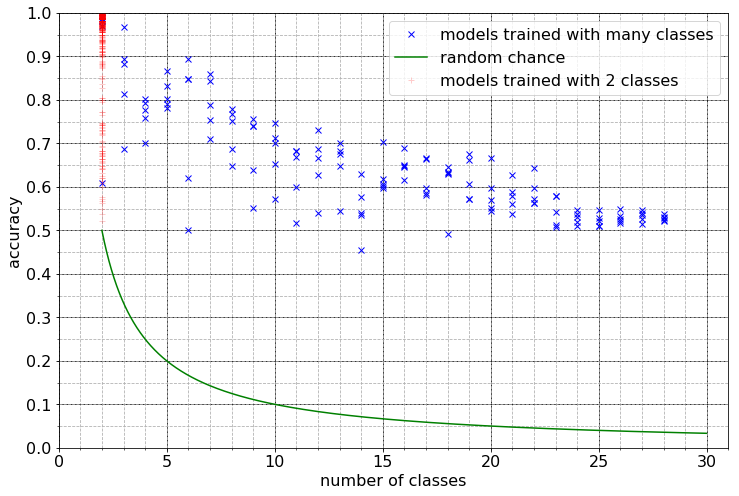
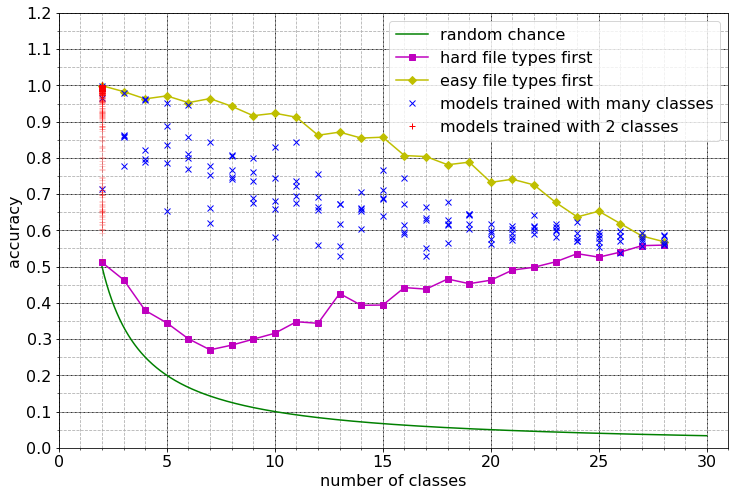
import from papers and monograph

diff --git a/content/4.3-discussion.tex b/content/4.3-discussion.tex
@@ -4,10 +4,50 @@ The best accuracy results were from the three models identified as ``CCM'', ``CM
 
 In this research, the models were not trained until exhaustion. This was initially done to identify which models would be most promising for future testing, but further attempts to tune layer types, quantity and parameters resulted in accuracy values still close to 0.54, which suggests that selection or tuning of models may not be the best approach to improve results.
 
+\section{Limitations and threats to validity}
 
-% Among the examined networks, while some of them satisfy the requirements imposed and could potentially be used by a forensic examiner to create a model to a new file type, the networks that showed the best results are those that use convolutional layers to split and process the input and then use LSTM layers to analyse the series of outputs produced by the convolutional layers. This gives a direct answer to the first research question, ``How does different neural network models compare to each other in terms of training performance and quality of results?''.
+\section{Future work}
 
-% To answer the second question, ``Which neural network models would be more suitable to accept the addition of new filetypes by the forensic examiners community?'', a set of constraints were imposed to the analyzed models. The achieved results can be replicated with little computational power, in a short time period and with limited datasets.
+The models required short training times and few examples to approach their limit.
+This suggests that some patterns were very easy to find but they were insufficient to achieve a higher accuracy.
+This raises the question whether there are harder patterns that could be found by a better model not yet tried or if this a more fundamental issue that would not be solved by a trial and error approach of tweaking of parameters and layer modifications.
 
-% To create models that recognize new filetypes, a forensic examiner would have to gather a small dataset for each filetype that needs to be recognized. Datasets of 100 files were sufficient to run the experiments in this work, but it is possible that even smaller datasets could be used. Then, a network with two convolutional layers with max pooling followed by a LSTM layer could be used to quickly train a new model, without the requirement of special hardware. In the chosen framework, Keras, the export and import of models can be easily done, so the forensic examiner could export and publish the new model in a public repository.
+Based on the work presented here, further studies focused on error analysis are in progress to address this question.
 
+\section{Conclusion}
+This study evaluates some alternative models in the file fragment classification task. The expectation was to identify the most promising models for improvement. But an apparent limit was found on how far these models could be improved.
+
+% Using different combinations of layers and parameters, the expectation was that some models would be discarded and some would be selected as promising alternatives. That could be used to guide future researches and also serve as a reference for comparison between studies. 
+The Govdocs1 dataset brought an important basis for comparison to be used between carving solutions. But to achieve easily reproducible results, the models must also be publicly available, a condition not all revised studies fulfill. Being available as Jupyter notebooks at https://github.com/atilaromero/carving-experiments, the results described here should require little effort to be reproduced. Thus the models presented here can be used as a basis of comparison in  future researches.
+
+
+======================
+Monografia
+The results may be grouped in three groups. The models that used LSTM without a convolutional layer performed poorly. The models with convolutional layers that used LSTM as the final layer had intermediary results. The remaining models were the single layer perceptron (single fully-connected layer model, identified as ``D'') and the models that used convolutional models and used a fully-connected layer or maxpooling as the last layer.
+
+The best accuracy results were from the three models identified as ``CCM'', ``CM'', and ``CLD'', but the latter had faster training time and also showed good resilience to changes: during preliminary tests and later when test conditions where altered to try to improve results, this model and its variations always were among the best models while the others were not.
+
+This study evaluated some alternative models in the file fragment classification task. The expectation was to identify the most promising models for improvement. But an apparent limit was found on how far these models could be improved. 
+
+The anticipation that LSTM models would be a good fit to file fragment classification was not confirmed: the results of networks using only LSTM layers without convolutional ones were poor in accuracy and training speed. However, good results were obtained using LSTM as an auxiliary layer to a mainly convolutional neural network (CNN). 
+
+% Using different combinations of layers and parameters, the expectation was that some models would be discarded and some would be selected as promising alternatives. That could be used to guide future researches and also serve as a reference for comparison between studies. 
+The Govdocs1 dataset brought an important basis for comparison to be used between carving solutions. But to achieve easily reproducible results, the models must also be publicly available, a condition not all revised studies fulfill. Being available as Jupyter notebooks at https://github.com/atilaromero/carving-experiments, the results described here should require little effort to be reproduced. Thus the source code to generate models with same architecture of those presented here can be used as a basis of comparison in future researches.
+
+A comparison was made between a chosen model, CLD, and recent works on the field. While CLD achieved slight lower accuracy values than the other studies, it can be noticed that the values are very similar. This is a indication that the high  variation that those studies show between each other are caused by the difference in the file types they choose. This supports the claim that advances in this area should come from error analysis instead of model tweaking.
+
+\section{Limitations and threats to validity}
+
+In this research, the models were not trained until exhaustion. This was initially done to identify which models would be most promising for future testing, but further attempts to tune layer types, quantity and parameters resulted in accuracy values still close to 0.6, which suggests that selection or tuning of models may not be the best approach to improve results.
+
+However, the 14 models used in this study represent a very small sample of all possible model architectures using the chosen layer types. Moreover, there is no certainty that in different circumstances the best performing models will continue to outperform the others. For those reasons, the search for an alternative model could also be a valid research direction.
+
+The proposed models use a small number of layers. Since deep networks have shown good results in other applications, a study that increase the number of layers of the models presented here may improve results.
+
+\section{Future work}
+
+Most models required short training times and few examples to approach their limit.
+This suggests that some patterns were very easy to find but they were insufficient to achieve a higher accuracy.
+This raises the question whether there are harder patterns that could be found by a better model not yet tried or if this a more fundamental issue that would not be solved by a trial and error approach of tweaking of parameters and layer modifications.
+
+Based on the work presented here, further studies focused on error analysis are in progress to address this question.

diff --git a/content/5.1-method.tex b/content/5.1-method.tex
@@ -1,0 +1,43 @@
+% \levelB{Objective}
+In preliminary tests, it was observed that achieving accuracy values above 0.6 on file fragment classification using 28 classes was a difficult task to the considered models. In other studies results \cite{hiester_file_2018} \cite{sportiello_context-based_2012} \cite{amirani_feature-based_2013} \cite{maslim_distributed_2014} and on initial tests, the achieved accuracy for small number of classes was considerably higher. Hiester \cite{hiester_file_2018}, for instance, achieves an accuracy of 98\% using four classes.
+
+% \levelB{Dataset}
+This study uses the Govdocs1 dataset \cite{garfinkel_bringing_2009}, which was fully downloaded and its files were grouped by extension. This dataset has files with 63 different extensions. The 33 extensions with less than 200 files were discarded. The  ``text'' and ``unk'' extensions were discarded because files with these extensions use multiple formats and they do not correspond to a single file type. From the remaining 28 extensions, listed in table \ref{tab:studiesfiletypes}, 200 files of each were randomly selected, 100 to use in the training dataset and 100 to use in the validation dataset.
+
+% \input{content/tables/4.0.1-govdocs.tex}
+
+% \levelB{Sampling}
+To select a sample instance from the Govdocs1 dataset, first a random file is selected among those available, without replacement. Then, a block from this file is randomly selected. After all files have participated in the process, the process may be repeated as long as necessary. This way, all files are considered and the classes are easily balanced.
+This contrasts with the sampling technique applied in other works, where all the sectors are grouped before sampling, which may lead to an imbalance between classes.
+
+% \levelB{Inputs}
+%one-hot
+The input features of the network for each instance is a 512x256 matrix representing only one block of 512 bytes of a random file of the dataset. Each of the 512 bytes is one-hot encoded, meaning that its value is converted into a vector with 256 elements, with only one of them set to 1, corresponding to the value of the byte, while the others are set to zero. A batch size of 100 was used, with 28 steps per epoch.
+
+% \levelB{Outputs}
+The output of the network for a given instance is a vector with a size equal to the number of classes, subjected to a softmax function, which applies the exponential function on the vector and then normalizes it. Each value will represent the predicted probability that the instance belongs to a specific class. The class for a block sample is the file extension of the original file.
+
+% \levelB{Model}
+Before doing the procedures described here, 14 combinations of types of layers were compared, using convolutional, LSTM, and fully-connected layers. For each combination, some variations in parameters were also experimented with. This led to the three-layer model used in this research. The first is a convolutional layer with 256 output units, a window of size 16, and a stride of 16. The second is a LSTM layer of 128 units. The last is a fully-connected layer where the number of output units match the number of classes of the input dataset.
+
+%optimization
+All the trainings used the Adam \cite{kingma_adam:_2014}
+optimization algorithm to guide backpropagation, which was selected because it performed well in the preliminary tests without requiring fine-tuning of parameters.
+
+% Constraints
+The models were trained until no further improvement was observed in the last 10 epochs, using categorical cross entropy loss.
+
+\levelC{Accuracy vs. number of classes}
+Several independent models with the same general architecture but different weights were trained with 2 to 28 extensions from the Govdocs1 dataset. For each number in the range 2 to 28, a random subset of extensions was selected to compose the dataset. Each extension has 200 file samples, half placed in the training dataset and half in the validation dataset. Each dataset was used to train a new model, that should distinguish between the selected subset of extensions in that filtered dataset. This process was repeated five times.
+
+In addition to this sampling of extensions using different quantities of classes, all 378 combinations of pairs of extensions were compared. Each pair was used to compose a dataset and to train a new model for each one, using the same process described in the previous paragraph.
+
+Given the number of different models trained (135 for the N classes phase and 378 for the pairs), it was important to use a model architecture that had a fast training time. Models trained with the chosen architecture took about 10 minutes to train. Without this short training period, this study would not be feasible.
+
+\levelC{PCA}
+The accuracy obtained after the training of models with pairs of classes was used to build a 28x28 matrix. Here the accuracy of the model trained for that particular pair of extensions was used as a distance measure of how similar those file types are. If a model was able to achieve 100\% accuracy, the file types would be considered different, if the accuracy is 50\%, they would be considered indistinguishable, as 50\% is the average accuracy of a random guess classifier for two classes.
+
+Following this concept, the diagonal entries of the matrix were filled with the value 0.5, as each class should be indistinguishable from itself. Then, a Principal Component Analysis (PCA) \cite{amirani_new_2008} was used to treat this matrix. The 28x28 matrix can be interpreted as 28 vectors of 28 dimensions. For each class, the vector indicates how similar that class is to each of the others. This could be plotted in a space of 28 dimensions, if such representation could be built. What PCA does is to reduce the dimensionality of this space. Here the dimensions were reduced to 2, to be shown in a 2D graph. To do that, it chooses as first axis the one that maximizes the variance in data and then does the same for the second dimension. That produces a projection in which the points are as farther away as possible.
+
+While it may not be obvious how to attribute meaning to the resulting coordinate system, this technique is useful to visually group classes with similar characteristics.
+

diff --git a/content/5.3-discussion.tex b/content/5.3-discussion.tex
@@ -1,0 +1,35 @@
+
+%fig 1
+\levelB{Accuracy vs. number of classes}
+
+In figure \ref{fig:nclasses}, a decreasing trend was observed. An increase in the number of classes appears to be  correlated with a decrease in accuracy. Another relevant aspect of the graph is that the range of the results seems to be smaller when more classes are used.  
+
+This pattern is understandable: as the number of classes grows, the harder the classification problem is, leading to a decrease in accuracy. Meanwhile, the individual contributions of each class to the overall result diminishes, leading to an increase in precision.
+
+This behavior is an important aspect to consider during the evaluation of file fragments studies. This observation is in agreement with Beebe et al. \cite{beebe_sceadan:_2013} assumption, that studies that select fewer classes tend to yield higher results. 
+
+Still, with 42\% of samples being misclassified when the number of classes is 28, the question of what are the error sources and how they can be addressed requires attention.
+
+The number of possible combinations of file types to compose the datasets depends on the number of classes being considered. For 28 classes there is only one possible combination, while for two classes there are 378. For intermediary values, the numbers are much higher, which is the number of possible combinations disregarding the order of the elements: $ \frac{28!}{(28-n)!n!}$. For 14 file types there are 40116600 combinations. For this reason, the significance of the 5 samples diminishes for intermediary values.
+
+\levelB{Accuracy of pairs of classes}
+
+The accuracy of models trained with pairs of classes, shown in figure \ref{fig:dual}, suggests a reverse correlation between entropy and accuracy.  Generally, file types with higher entropy tend to have lower minima, with the GIF file type being a notable exception. Most of these files use some form of compression, like image files for example.
+
+It was demonstrated that the accuracy of a new model may be manipulated by the selection of file types that will compose the dataset. The lines ``hard file types first'' and ``easy file types first'' of figure \ref{fig:nclasses} were created using the order shown on figure \ref{fig:dual}, resulting in lines that seem to be close to the minimum and maximum of the possible accuracy values. 
+
+\levelB{PCA}
+
+The usage of PCA on the 28x28 distance matrix produced a 2D projection where the file types that use compression or contains images are grouped near each other, as shown in figures \ref{fig:pca} and \ref{fig:pca2}.
+
+
+\section{Conclusion}
+It was observed that an increase in the number of extensions selected to compose the training had the tendency to decrease accuracy and increase precision. But the number of classes alone is not as important as the type of extension selected: some file types when included in the experiment have a much higher negative impact than others. This observation was demonstrated in the ``hard file types first'' and ``easy file types first'' of figure \ref{fig:nclasses}, where the file types selected to compose  where intentionally chosen, once to degrade results and once to improve them.
+
+File types that contains images or that use compression were identified as those that have the higher negative effect on results, which suggests that their entropy may contribute to the error.
+
+\levelB{Limitations, threats to validity and future work}
+
+The number of samples taken was small when compared with the number of all possible file types combinations. This imposes a limit on the conclusions that can be reached and this limitation is hard to overcome.
+
+The group that emerged as file types that most degrade results are files that use compression or contain images. While they are known for their high entropy, no measure of entropy was used to reinforce this claim. A study is in progress to measure the impact of entropy on file fragment classification errors.

diff --git a/content/5.2-results.tex b/content/5.2-results.tex
@@ -1,0 +1,54 @@
+% \levelB{Hardware}
+The experiments did not take advantage of GPU acceleration and were  conducted on a single computer with 256GB of RAM and with 2 Intel\textregistered Xeon\textregistered E5-2630 v2 processors, with 6 cores each, with 2 hyper-threads per core, or 24 hyper-threads in total. 
+
+
+% \levelB{Software}
+The main software and frameworks used to build the experiments were Python 3.6, Jupyter notebook, Tensorflow 1.14.0, Keras 2.2.4-tf, and Fedora Linux 27.
+
+% repository
+The source code for the experiments is available at \sloppy\url{http://github.com/atilaromero/carving-experiments}.
+
+\levelC{Accuracy vs. number of classes}
+
+% decrease in accuracy
+Figure \ref{fig:nclasses} shows the graph of accuracy versus number of classes.  Each of those points is a model trained with the indicated number of classes. The class for a block sample is the file extension of the original file. The classes/extensions used to train each model were take at random. The bottom line indicates, for comparison, what the accuracy would be for a random guessing classifier. The points for 2 classes use transparency to improve visualisation, as many of them are too close. For 2 classes, the accuracy values are between 0.5 and 1.0, with a greater concentration near 1.0. For 28 classes, the accuracy values are between 0.55 and 0.58.
+
+% It is important to notice that, for most cases, the five models plotted for each column is a very small subset of all possible combinations for that number of classes. 
+
+The lines ``hard file types first'' and ``easy file types first'' were created by selecting the file types that would compose the dataset. The selection was based on the results described in the next subsection, ``Accuracy of pairs of classes'', ordering the file types by their minimum accuracy values and following this order to choose file types. For example, the ``hard file types first'' point for three classes was obtained by training a model with the file types ``pps'', ``ppt'', and ``gz'', the three classes with lower minima in figure \ref{fig:dual}.
+
+\noindent
+\begin{figure*}[htb!]
+\centering\includegraphics[width=0.8\textwidth]{content/nclasses.png}
+\caption{\label{fig:nclasses}Validation accuracy by number of classes}%
+\end{figure*}
+
+\levelC{Accuracy of pairs of classes}
+
+Figure \ref{fig:dual} shows the graph of the accuracy of each class when compared individually with each one of the others, resulting in 378 models, one for each possible pair of classes. File types where all the points are close to 1.0 are hardly mistaken for other types, while file types presenting accuracy values close to 0.5 can be mistaken for other file types by the model.
+
+\noindent
+\begin{figure*}[htb!]
+\centering\includegraphics[width=0.8\textwidth]{content/dual.png}
+\caption{\label{fig:dual}Validation accuracy of models trained with pair of classes}%
+\end{figure*}
+
+\levelC{PCA}
+
+A 28x28 matrix was made using the accuracy of the models built for each pair of classes as a distance measure. A PCA dimensionality reduction technique was used to plot this data in a 2D graph, grouping similar file types. The result is shown in figures \ref{fig:pca} and \ref{fig:pca2}. Similar file types are next to each other, while those that can be easily distinguished by the models are represented by points that are distant from each other.
+
+\noindent
+\begin{figure*}[htb!]
+\centering\includegraphics[width=0.8\textwidth]{content/pca.png}
+\caption{\label{fig:pca}PCA of accuracy of models trained with pair of classes}%
+\end{figure*}
+
+
+\noindent
+\begin{figure*}[htb!]
+\centering\includegraphics[width=0.8\textwidth]{content/pca2.png}
+\caption{\label{fig:pca2}PCA of accuracy of models trained with pair of classes - lower right detail}%
+\end{figure*}
+
+% the problem of unseen file types
+% \levelC{Limitations and threats to validity}

diff --git a/content/4.1-method.tex b/content/4.1-method.tex
@@ -3,13 +3,6 @@ In this research, different neural networks are trained and validated
 at the file fragment identification task. Their accuracy is then compared,
 to identify which models should be considered or disregarded.
 
-% \levelB{xxx}
-
-
-
-
-
-
 %\levelB{Models}
 The networks under consideration used different combinations of convolutional, max pooling, LSTM, and fully connected layers,
 %loss
@@ -25,4 +18,18 @@ optimization algorithm to guide backpropagation, which was selected because it p
 
 % Constraints
 The models were trained until no further improvement was observed in the last 10 epochs, using categorical cross entropy loss.
+
+After the 14 models were compared, one of the models, CLD, was chosen to have its results compared with other works. A longer training session was performed in this stage, using a batch size of 300 samples instead of 100, and increasing the improvement threshold of the early stopping condition (maximum epochs to wait for improvements) from 10 to 20.
+
+Using this extended training parameters, the CLD model was trained with the 28 file types used in the first stage. Then, a different model was built from scratch using the same file types of each of the most recent works listed in table \ref{tab:datacarvingstudies}: 
+Hiester \cite{hiester_file_2018}, 
+Chen \textit{et al.} \cite{chen_file_2018},
+Wang \textit{et al.} \cite{wang_sparse_2018},
+Wang \textit{et al.} \cite{wang_file_2018},
+and
+Vulinović \textit{et al.} \cite{vulinovic_neural_2019}.
+
+This comparison has three important restrictions.
+Chen used 4096 bytes for the block size, while this work used 512 bytes only.
+Vulinović got an F1-score of 81\% for the Multi Layer Perceptron (MLP) feeded with byte histograms, a better result than the one obtained with a Convolutional Neural Network (CNN) feeded with raw bytes, 61\%. But the comparison with the CLD model of this study was based on Vulinović results with the CNN, not the MLP, because it is a more similar solution, one that uses raw bytes instead of byte histograms. Additionally, his results use F1-score, while this work measured accuracy. 
 

diff --git a/content/4.2-results.tex b/content/4.2-results.tex
@@ -51,3 +51,20 @@ To check if the two slower models could give better results if executed for a lo
 %stagnation in learning with such short times, combined with low final accuracy suggests that the dataset present some patterns that are easily recognizable, while the rest of the dataset present a very hard classification task.
 
 % \levelC{Limitations and threats to validity}
+
+The model CLD was chosen to be compared with other works because it was among the 3 models with highest accuracy, but achieved its results in less time and showed high resilience to changes in parameters during the tests, while the others did not.
+ 
+In this second stage, using longer training sessions, the accuracy for the 28 file types used in the first stage increased from 0.54 to 0.62. Using the same file types of other works, the CLD model achieved an accuracy of 
+0.66 for the file types from Chen \textit{et al.} \cite{chen_file_2018},
+0.91 for Hiester \cite{hiester_file_2018}, 
+0.59 for Wang \textit{et al.} \cite{wang_sparse_2018},
+0.64 for Wang \textit{et al.} \cite{wang_file_2018},
+and
+0.60 for Vulinović \textit{et al.} \cite{vulinovic_neural_2019}.
+The results can be seen in figure \ref{fig:cldothers}.
+
+\noindent
+\begin{figure*}[htb!]
+\centering\includegraphics[width=0.8\textwidth]{content/CLD-others.png}
+\caption[CLD vs. other studies]{\label{fig:cldothers}The CLD model was trained from scratch using the same file types used in other works. The bar plot shows the comparison between the validation accuracy obtained with CLD and those achieved in other studies.}%
+\end{figure*}

diff --git a/content/5-nclasses.tex b/content/5-nclasses.tex
@@ -1,0 +1,1 @@
+This study describes how does the accuracy of neural network models change relative to the number of classes in the dataset.
